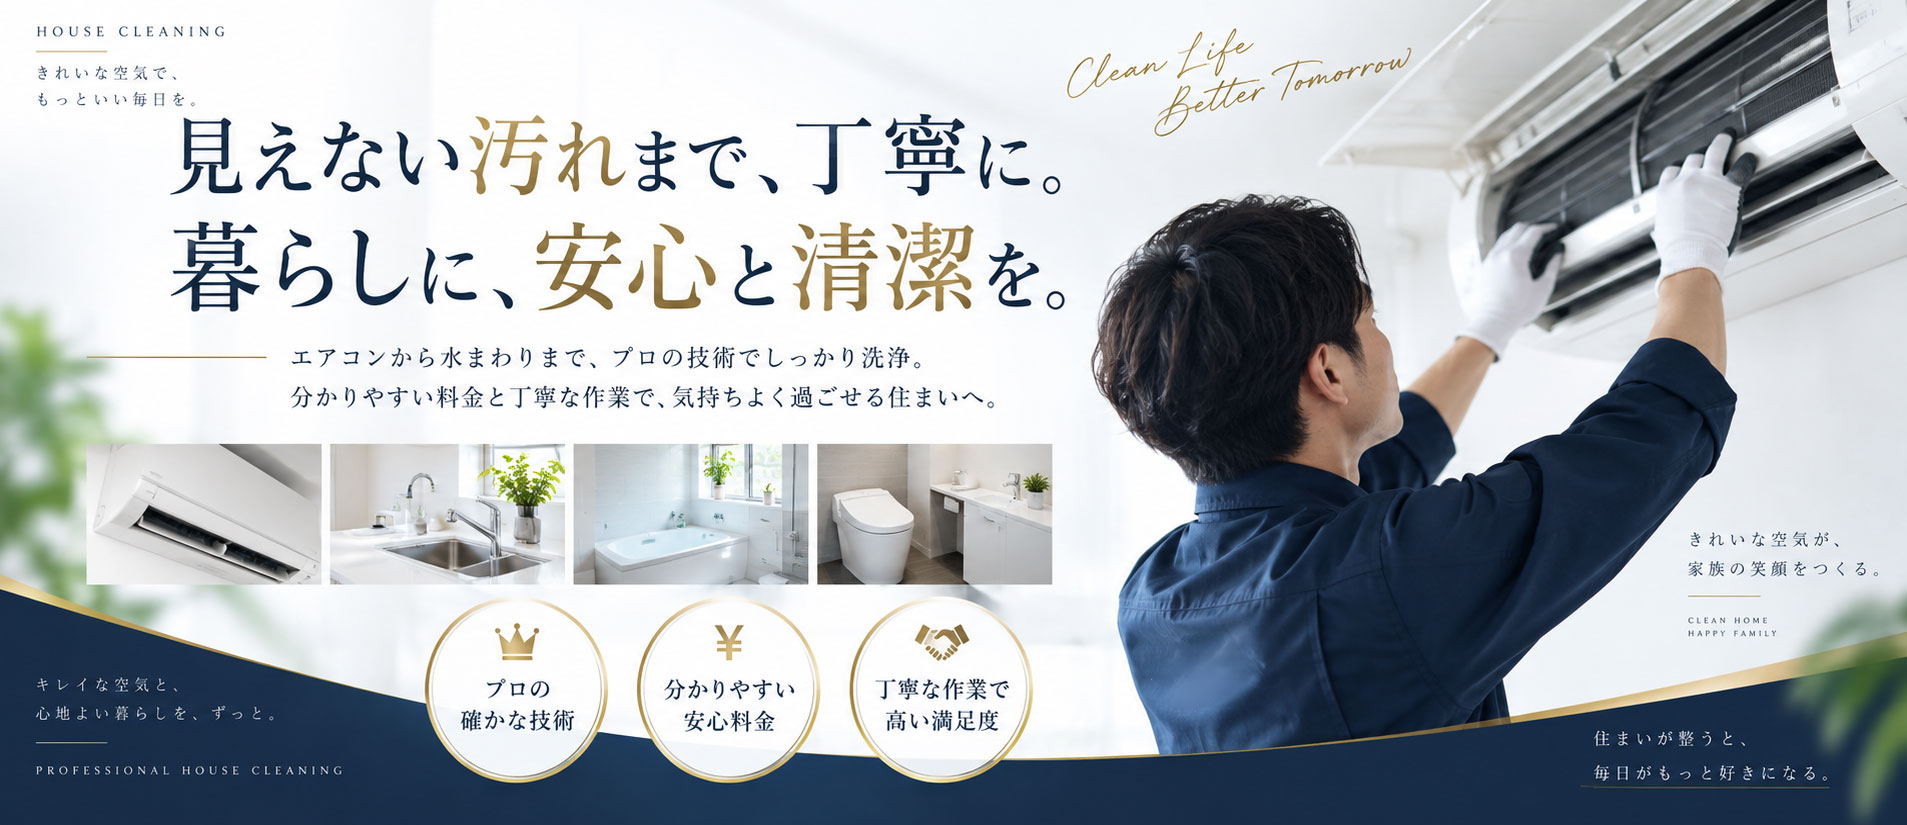
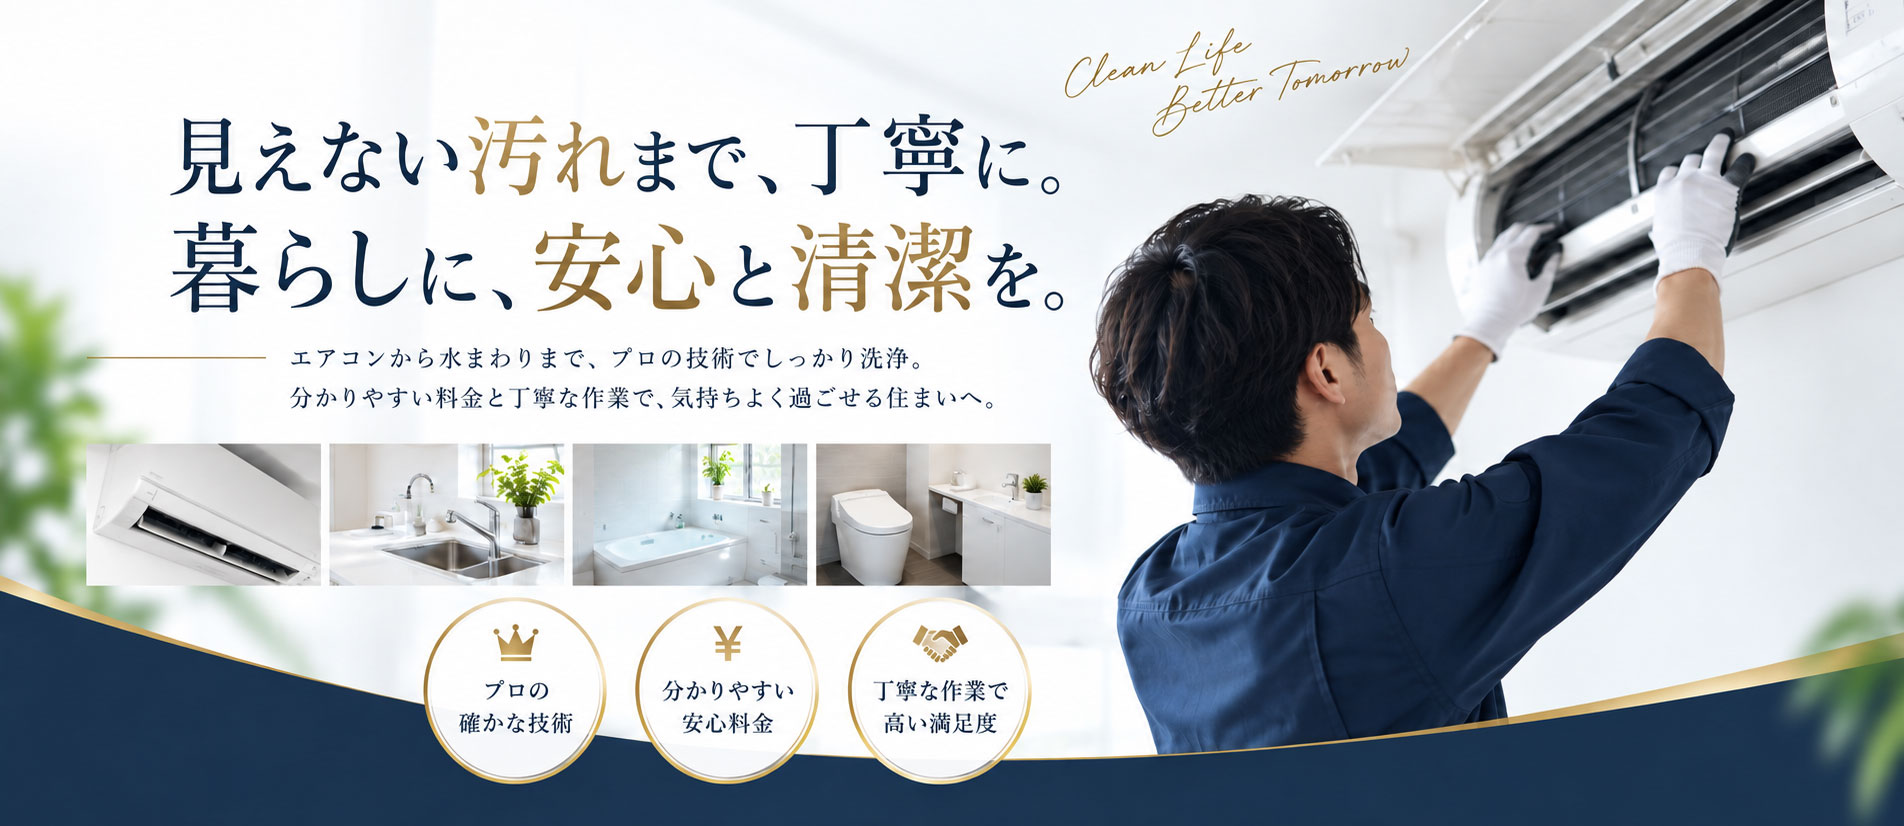
FVのテキストとアニメーションを削除し、PC用(fv.jpg)・SP用(spfv.jpg)の一枚絵画像に差し替え

diff --git a/Careful Cleaning/CSS/style.css b/Careful Cleaning/CSS/style.css
@@ -364,225 +364,26 @@ body {
 ========================================================== */
 .hero {
   position: relative;
-  padding-top: 80px;
-  height: 100vh;
-  min-height: 650px;
-  display: flex;
-  align-items: center;
-  overflow: hidden;
+  padding-top: 80px; /* PC Fixed Header Height */
+  width: 100%;
   background-color: var(--white);
 }
-
 @media (max-width: 1024px) {
   .hero {
-    padding-top: 70px;
-    height: auto;
-    flex-direction: column;
-    text-align: center;
+    padding-top: 70px; /* SP Fixed Header Height */
   }
 }
-
-.hero-visual {
-  position: absolute;
-  inset: 0;
-  z-index: 1;
-}
-
-@media (max-width: 1024px) {
-  .hero-visual {
-    position: relative;
-    width: 100%;
-    height: 400px;
-    order: 1;
-  }
-}
-
-.fv-slide {
-  position: absolute;
-  inset: 0;
+.hero picture {
+  display: block;
   width: 100%;
-  height: 100%;
-  object-fit: cover;
-  opacity: 0;
 }
-
-/* FV画像のダミー設定 */
-.fv-slide:nth-child(1) {
-  animation: fv-fade 18s infinite;
-  background: #ccd5e0;
-}
-
-.fv-slide:nth-child(2) {
-  animation: fv-fade 18s infinite;
-  animation-delay: 6s;
-  background: #e0e5cd;
-}
-
-.fv-slide:nth-child(3) {
-  animation: fv-fade 18s infinite;
-  animation-delay: 12s;
-  background: #e0d8cd;
-}
-
-@keyframes fv-fade {
-  0% {
-    opacity: 0;
-    transform: scale(1);
-  }
-
-  10% {
-    opacity: 1;
-    transform: scale(1.02);
-  }
-
-  33% {
-    opacity: 1;
-    transform: scale(1.05);
-  }
-
-  43% {
-    opacity: 0;
-    transform: scale(1.07);
-  }
-
-  100% {
-    opacity: 0;
-    transform: scale(1);
-  }
-}
-
-.hero::before {
-  content: '';
-  position: absolute;
-  inset: 0;
-  background: linear-gradient(90deg, rgba(255, 255, 255, 1) 0%, rgba(255, 255, 255, 0.85) 45%, rgba(255, 255, 255, 0) 100%);
-  z-index: 2;
-}
-
-@media (max-width: 1024px) {
-  .hero::before {
-    display: none;
-  }
-}
-
-.hero-content {
-  position: relative;
-  z-index: 10;
-  padding: 0 5%;
-  max-width: 800px;
-}
-
-@media (max-width: 1024px) {
-  .hero-content {
-    padding: 50px 20px;
-    width: 100%;
-    text-align: center;
-    order: 3;
-  }
-}
-
-.hero-title {
-  font-size: clamp(28px, 4vw, 44px);
-  font-weight: 900;
-  color: var(--primary);
-  line-height: 1.5;
-  margin-bottom: 25px;
-  text-shadow: 2px 2px 10px rgba(255, 255, 255, 0.8);
-}
-
-@media (max-width: 1024px) {
-  .hero-title {
-    font-size: 24px;
-    text-shadow: none;
-  }
-}
-
-.hero-subtitle {
-  font-size: clamp(14px, 1.8vw, 16px);
-  font-weight: 500;
-  color: var(--text-main);
-  background: rgba(255, 255, 255, 0.9);
-  display: inline-block;
-  padding: 15px 30px;
-  border-left: 4px solid var(--accent);
-  box-shadow: 0 4px 15px rgba(0, 0, 0, 0.05);
-  line-height: 2;
-}
-
-@media (max-width: 1024px) {
-  .hero-subtitle {
-    padding: 0;
-    background: none;
-    border: none;
-    box-shadow: none;
-    display: block;
-    text-align: left;
-  }
-}
-
-/* Wave - 高級感に合わせ色を調整 */
-.hero-wave {
-  position: absolute;
-  bottom: 0;
-  left: 0;
-  right: 0;
+.fv-img {
+  display: block;
   width: 100%;
-  overflow: hidden;
-  line-height: 0;
-  z-index: 15;
+  height: auto;
 }
 
-@media (max-width: 1024px) {
-  .hero-wave {
-    position: relative;
-    top: auto;
-    bottom: auto;
-    order: 2;
-    margin-top: -30px;
-    z-index: 5;
-  }
-}
-
-.waves {
-  position: relative;
-  width: 100%;
-  height: 60px;
-  margin-bottom: -7px;
-}
-
-.parallax>use {
-  animation: move-forever 25s cubic-bezier(.55, .5, .45, .5) infinite;
-}
-
-.parallax>use:nth-child(1) {
-  animation-delay: -2s;
-  animation-duration: 7s;
-}
-
-.parallax>use:nth-child(2) {
-  animation-delay: -3s;
-  animation-duration: 10s;
-}
-
-.parallax>use:nth-child(3) {
-  animation-delay: -4s;
-  animation-duration: 13s;
-}
-
-.parallax>use:nth-child(4) {
-  animation-delay: -5s;
-  animation-duration: 20s;
-}
-
-@keyframes move-forever {
-  0% {
-    transform: translate3d(-90px, 0, 0);
-  }
-
-  100% {
-    transform: translate3d(85px, 0, 0);
-  }
-}
+/* FV要素は画像のみのため、テキストや波のスタイルは削除済 */
 
 /* ==========================================================
    Sections Common

diff --git a/Careful Cleaning/index.html b/Careful Cleaning/index.html
@@ -79,29 +79,10 @@
 
   <!-- ================= FV (Hero) ================= -->
   <section class="hero">
-    <div class="hero-visual">
-      <img src="https://placehold.co/1200x800/ccd5e0/0f284b?text=Air+Conditioner" alt="クリーンなリビング" class="fv-slide">
-      <img src="https://placehold.co/1200x800/e0e5cd/0f284b?text=Clean+Kitchen" alt="清潔なキッチン" class="fv-slide">
-      <img src="https://placehold.co/1200x800/e0d8cd/0f284b?text=Clean+Bathroom" alt="清潔な浴室" class="fv-slide">
-    </div>
-    <div class="hero-content reveal">
-      <h1 class="hero-title font-mincho">見えない汚れまで、丁寧に。<br>暮らしに、安心と清潔を。</h1>
-      <p class="hero-subtitle">エアコンから水まわりまで、プロの技術でしっかり洗浄。<br class="pc-only">分かりやすい料金と丁寧な作業で、気持ちよく過ごせる住まいへ。</p>
-    </div>
-    <div class="hero-wave">
-      <svg class="waves" xmlns="http://www.w3.org/2000/svg" xmlns:xlink="http://www.w3.org/1999/xlink"
-        viewBox="0 24 150 28" preserveAspectRatio="none" shape-rendering="auto">
-        <defs>
-          <path id="gentle-wave" d="M-160 44c30 0 58-18 88-18s 58 18 88 18 58-18 88-18 58 18 88 18 v44h-352z" />
-        </defs>
-        <g class="parallax">
-          <use xlink:href="#gentle-wave" x="48" y="0" fill="rgba(255,255,255,0.8)" />
-          <use xlink:href="#gentle-wave" x="48" y="3" fill="rgba(255,255,255,0.5)" />
-          <use xlink:href="#gentle-wave" x="48" y="5" fill="rgba(184, 150, 77, 0.15)" />
-          <use xlink:href="#gentle-wave" x="48" y="7" fill="#ffffff" />
-        </g>
-      </svg>
-    </div>
+    <picture>
+      <source media="(max-width: 768px)" srcset="img/spfv.jpg">
+      <img src="img/fv.jpg" alt="Careful Cleaning" class="fv-img">
+    </picture>
   </section>
 
   <!-- ================= About ================= -->
@@ -324,7 +305,7 @@
   <section class="cta-section">
     <div class="cta-inner reveal">
       <h2 class="cta-title">ご予約・お問い合わせ</h2>
-      <p class="cta-desc">汚れやニオイでお困りのことがありましたら、小さなことでもお気軽にご相談ください。</p>
+      <p class="cta-desc">汚れやニオイでお困りのことが<br class="sp-only">ありましたら、<br class="sp-only">小さなことでもお気軽にご相談ください。</p>
       <div class="cta-actions">
         <div class="cta-tel-wrap">
           <a href="tel:050-5448-8061" class="cta-tel">050-5448-8061</a>
@@ -372,7 +353,7 @@
           <img src="https://placehold.co/600x600/f0f4f8/0f284b?text=Message" alt="お客様へのメッセージ">
         </div>
         <div class="message-content">
-          <h3 class="message-title font-mincho">見えない汚れまで、丁寧に。</h3>
+          <h3 class="message-title font-mincho">見えない汚れまで、<br class="sp-only">丁寧に。</h3>
           <p>
             お客様からいただく「お願いしてよかった」という言葉を、何より大切にしています。作業内容や料金をきちんとご説明し、見えない部分まで手を抜かず丁寧に仕上げます。<br><br>
             汚れやニオイでお困りのことがありましたら、小さなことでもお気軽にご相談ください。<br><br>
@@ -404,7 +385,7 @@
             <tbody>
               <tr>
                 <th>店舗名</th>
-                <td>Careful Cleaning（ケアフルクリーニング）</td>
+                <td>Careful Cleaning<br>（ケアフルクリーニング）</td>
               </tr>
               <tr>
                 <th>住所</th>
